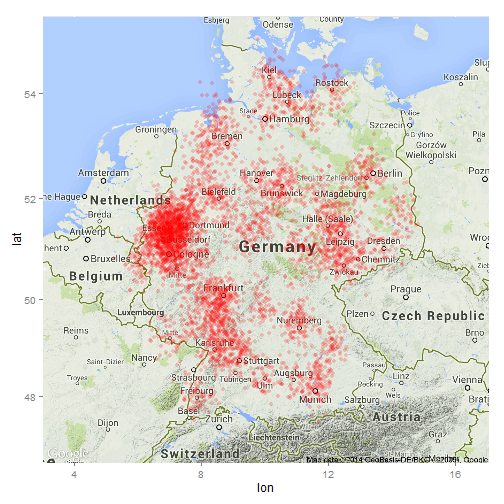
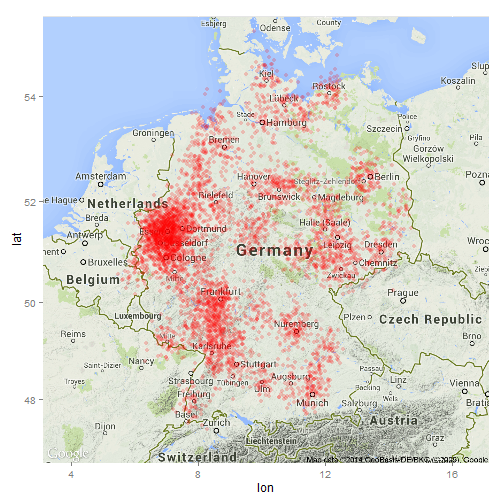
encoding workaround

diff --git a/index.html b/index.html
@@ -78,11 +78,12 @@ but downloaded from <a href="http://www.google.com.tr/url?sa=t&amp;rct=j&amp;q=&
   </hgroup>
   <article data-timings="">
     <ul>
-<li>using <code>XML</code> package&#39;s <code>htmlParse()</code> function to get the nodes</li>
+<li>using <code>XML</code> package&#39;s <code>htmlParse()</code> function to get the nodes 
+(NOTE: publishing changed the encoding, so I used a binary R file in the actual app)</li>
 <li>then decoding it using string functions (omitted for brevity)</li>
 </ul>
 
-<pre><code class="r">doc.text &lt;- readLines(&quot;geolocs-astrologon.html&quot;, encoding = &quot;ISO-8859-1&quot;)
+<pre><code class="r">doc.text &lt;- readLines(&quot;geolocs-astrologon.html&quot;)
 doc &lt;- htmlParse(doc.text)
 tab.nodes.lines &lt;- getNodeSet(doc, &quot;//table/tr&quot;)  ## see the whole node, including html tags:
 tab.nodes.lines.entries &lt;- lapply(tab.nodes.lines[-1], getNodeSet, &quot;td&quot;)
@@ -119,21 +120,18 @@ tab.nodes.lines.entries[[1]]
 <ul>
 <li>using the <code>input</code> object, select the data of the selected country</li>
 <li>generate a sample of <code>nrows</code> objects</li>
-<li>construct data frame with lat/lon objects plus \(N(0,1)\) random error</li>
+<li>construct data frame with lat/lon objects plus \(N(0,0.25)\) random error</li>
 </ul>
 
 <pre><code class="r">construct.data &lt;- reactive({
-    locbase.sel &lt;- locbase[grep(input$sel.country, locbase$country, fixed = TRUE), 
-        ]
-    loc.idx &lt;- sample(seq_along(locbase.sel$city), size = input$sel.nrows, replace = TRUE)
-    dat.all &lt;- data.frame(idx = seq_along(loc.idx))
-    dat.all$country &lt;- locbase.sel$country[loc.idx]
-    dat.all$city &lt;- locbase.sel$city[loc.idx]
-    dat.all$lat &lt;- (locbase.sel$lat[loc.idx] + rnorm(input$sel.nrows, mean = 0, 
-        sd = 0.25))
-    dat.all$lon &lt;- (locbase.sel$lon[loc.idx] + rnorm(input$sel.nrows, mean = 0, 
-        sd = 0.25))
-    return(dat.all)
+  locbase.sel &lt;- locbase[grep(input$sel.country, locbase$country, fixed=TRUE),]
+  loc.idx &lt;- sample(seq_along(locbase.sel$city), size=input$sel.nrows, replace=TRUE)
+  dat.all &lt;- data.frame(idx = seq_along(loc.idx))
+  dat.all$country &lt;- locbase.sel$country[loc.idx]
+  dat.all$city &lt;- locbase.sel$city[loc.idx]
+  dat.all$lat &lt;- (locbase.sel$lat[loc.idx] + rnorm(input$sel.nrows, mean=0, sd=0.25))
+  dat.all$lon &lt;- (locbase.sel$lon[loc.idx] + rnorm(input$sel.nrows, mean=0, sd=0.25))
+  return(dat.all)   
 })
 </code></pre>
 
@@ -153,18 +151,16 @@ tab.nodes.lines.entries[[1]]
 <li>and construct the plot object (<strong>NOTE</strong>: This may take some time...)</li>
 </ul>
 
-<pre><code class="r">map.google &lt;- get_map(location = bbox, zoom = 6)
+<pre><code class="r">    map.google &lt;- get_map(location = bbox, zoom = 6)
 </code></pre>
 
 <pre><code>## converting bounding box to center/zoom specification. (experimental)
-## Map from URL : http://maps.googleapis.com/maps/api/staticmap?center=51.210259,10.037605&amp;zoom=6&amp;size=%20640x640&amp;scale=%202&amp;maptype=terrain&amp;sensor=false
+## Map from URL : http://maps.googleapis.com/maps/api/staticmap?center=51.273134,10.139709&amp;zoom=6&amp;size=%20640x640&amp;scale=%202&amp;maptype=terrain&amp;sensor=false
 ## Google Maps API Terms of Service : http://developers.google.com/maps/terms
 </code></pre>
 
-<pre><code class="r">
-p2 &lt;- ggmap(map.google) + labs(title = input$wch.country)
-p2 &lt;- p2 + geom_point(data = dat.all, aes(y = lat, x = lon), alpha = 0.2, size = 2, 
-    col = &quot;red&quot;)
+<pre><code class="r">    p2 &lt;- ggmap(map.google) + labs(title = input$wch.country)
+    p2 &lt;- p2 + geom_point(data=dat.all, aes(y = lat, x = lon), alpha=0.2, size=2, col=&quot;red&quot;)
 </code></pre>
 
   </article>
@@ -176,7 +172,7 @@ p2 &lt;- p2 + geom_point(data = dat.all, aes(y = lat, x = lon), alpha = 0.2, siz
     <h2>Step 4: Display</h2>
   </hgroup>
   <article data-timings="">
-    <pre><code class="r">plot(p2)
+    <pre><code class="r">    plot(p2)
 </code></pre>
 
 <p><img src="figure/display.png" alt="plot of chunk display"> </p>

diff --git a/index.md b/index.md
@@ -12,7 +12,6 @@ mode        : selfcontained # {standalone, draft}
 
 
 
-
 ## What the App does
 
 **Main Purpose** of this app:
@@ -32,12 +31,13 @@ but downloaded from [here](http://www.google.com.tr/url?sa=t&rct=j&q=&esrc=s&sou
 
 ## Step 1: Get GPS Coordinates
 
-* using `XML` package's `htmlParse()` function to get the nodes
+* using `XML` package's `htmlParse()` function to get the nodes 
+(NOTE: publishing changed the encoding, so I used a binary R file in the actual app)
 * then decoding it using string functions (omitted for brevity)
 
 
 ```r
-doc.text <- readLines("geolocs-astrologon.html", encoding = "ISO-8859-1")
+doc.text <- readLines("geolocs-astrologon.html")
 doc <- htmlParse(doc.text)
 tab.nodes.lines <- getNodeSet(doc, "//table/tr")  ## see the whole node, including html tags:
 tab.nodes.lines.entries <- lapply(tab.nodes.lines[-1], getNodeSet, "td")
@@ -61,7 +61,6 @@ tab.nodes.lines.entries[[1]]
 ## [1] "XMLNodeSet"
 ```
 
-
 --- 
 
 ## Step 2: Generate Points
@@ -69,25 +68,21 @@ tab.nodes.lines.entries[[1]]
 In a `reactive({})` function:
 * using the `input` object, select the data of the selected country
 * generate a sample of `nrows` objects
-* construct data frame with lat/lon objects plus $N(0,1)$ random error
+* construct data frame with lat/lon objects plus $N(0,0.25)$ random error
 
 
 ```r
 construct.data <- reactive({
-    locbase.sel <- locbase[grep(input$sel.country, locbase$country, fixed = TRUE), 
-        ]
-    loc.idx <- sample(seq_along(locbase.sel$city), size = input$sel.nrows, replace = TRUE)
-    dat.all <- data.frame(idx = seq_along(loc.idx))
-    dat.all$country <- locbase.sel$country[loc.idx]
-    dat.all$city <- locbase.sel$city[loc.idx]
-    dat.all$lat <- (locbase.sel$lat[loc.idx] + rnorm(input$sel.nrows, mean = 0, 
-        sd = 0.25))
-    dat.all$lon <- (locbase.sel$lon[loc.idx] + rnorm(input$sel.nrows, mean = 0, 
-        sd = 0.25))
-    return(dat.all)
+  locbase.sel <- locbase[grep(input$sel.country, locbase$country, fixed=TRUE),]
+  loc.idx <- sample(seq_along(locbase.sel$city), size=input$sel.nrows, replace=TRUE)
+  dat.all <- data.frame(idx = seq_along(loc.idx))
+  dat.all$country <- locbase.sel$country[loc.idx]
+  dat.all$city <- locbase.sel$city[loc.idx]
+  dat.all$lat <- (locbase.sel$lat[loc.idx] + rnorm(input$sel.nrows, mean=0, sd=0.25))
+  dat.all$lon <- (locbase.sel$lon[loc.idx] + rnorm(input$sel.nrows, mean=0, sd=0.25))
+  return(dat.all)   
 })
 ```
-
 
 
 --- 
@@ -100,20 +95,18 @@ In a `renderPlot({})` function:
 
 
 ```r
-map.google <- get_map(location = bbox, zoom = 6)
+    map.google <- get_map(location = bbox, zoom = 6)
 ```
 
 ```
 ## converting bounding box to center/zoom specification. (experimental)
-## Map from URL : http://maps.googleapis.com/maps/api/staticmap?center=51.210259,10.037605&zoom=6&size=%20640x640&scale=%202&maptype=terrain&sensor=false
+## Map from URL : http://maps.googleapis.com/maps/api/staticmap?center=51.273134,10.139709&zoom=6&size=%20640x640&scale=%202&maptype=terrain&sensor=false
 ## Google Maps API Terms of Service : http://developers.google.com/maps/terms
 ```
 
 ```r
-
-p2 <- ggmap(map.google) + labs(title = input$wch.country)
-p2 <- p2 + geom_point(data = dat.all, aes(y = lat, x = lon), alpha = 0.2, size = 2, 
-    col = "red")
+    p2 <- ggmap(map.google) + labs(title = input$wch.country)
+    p2 <- p2 + geom_point(data=dat.all, aes(y = lat, x = lon), alpha=0.2, size=2, col="red")
 ```
 
 --- 
@@ -122,10 +115,9 @@ p2 <- p2 + geom_point(data = dat.all, aes(y = lat, x = lon), alpha = 0.2, size =
 
 
 ```r
-plot(p2)
+    plot(p2)
 ```
 
 ![plot of chunk display](figure/display.png) 
-
 
 
